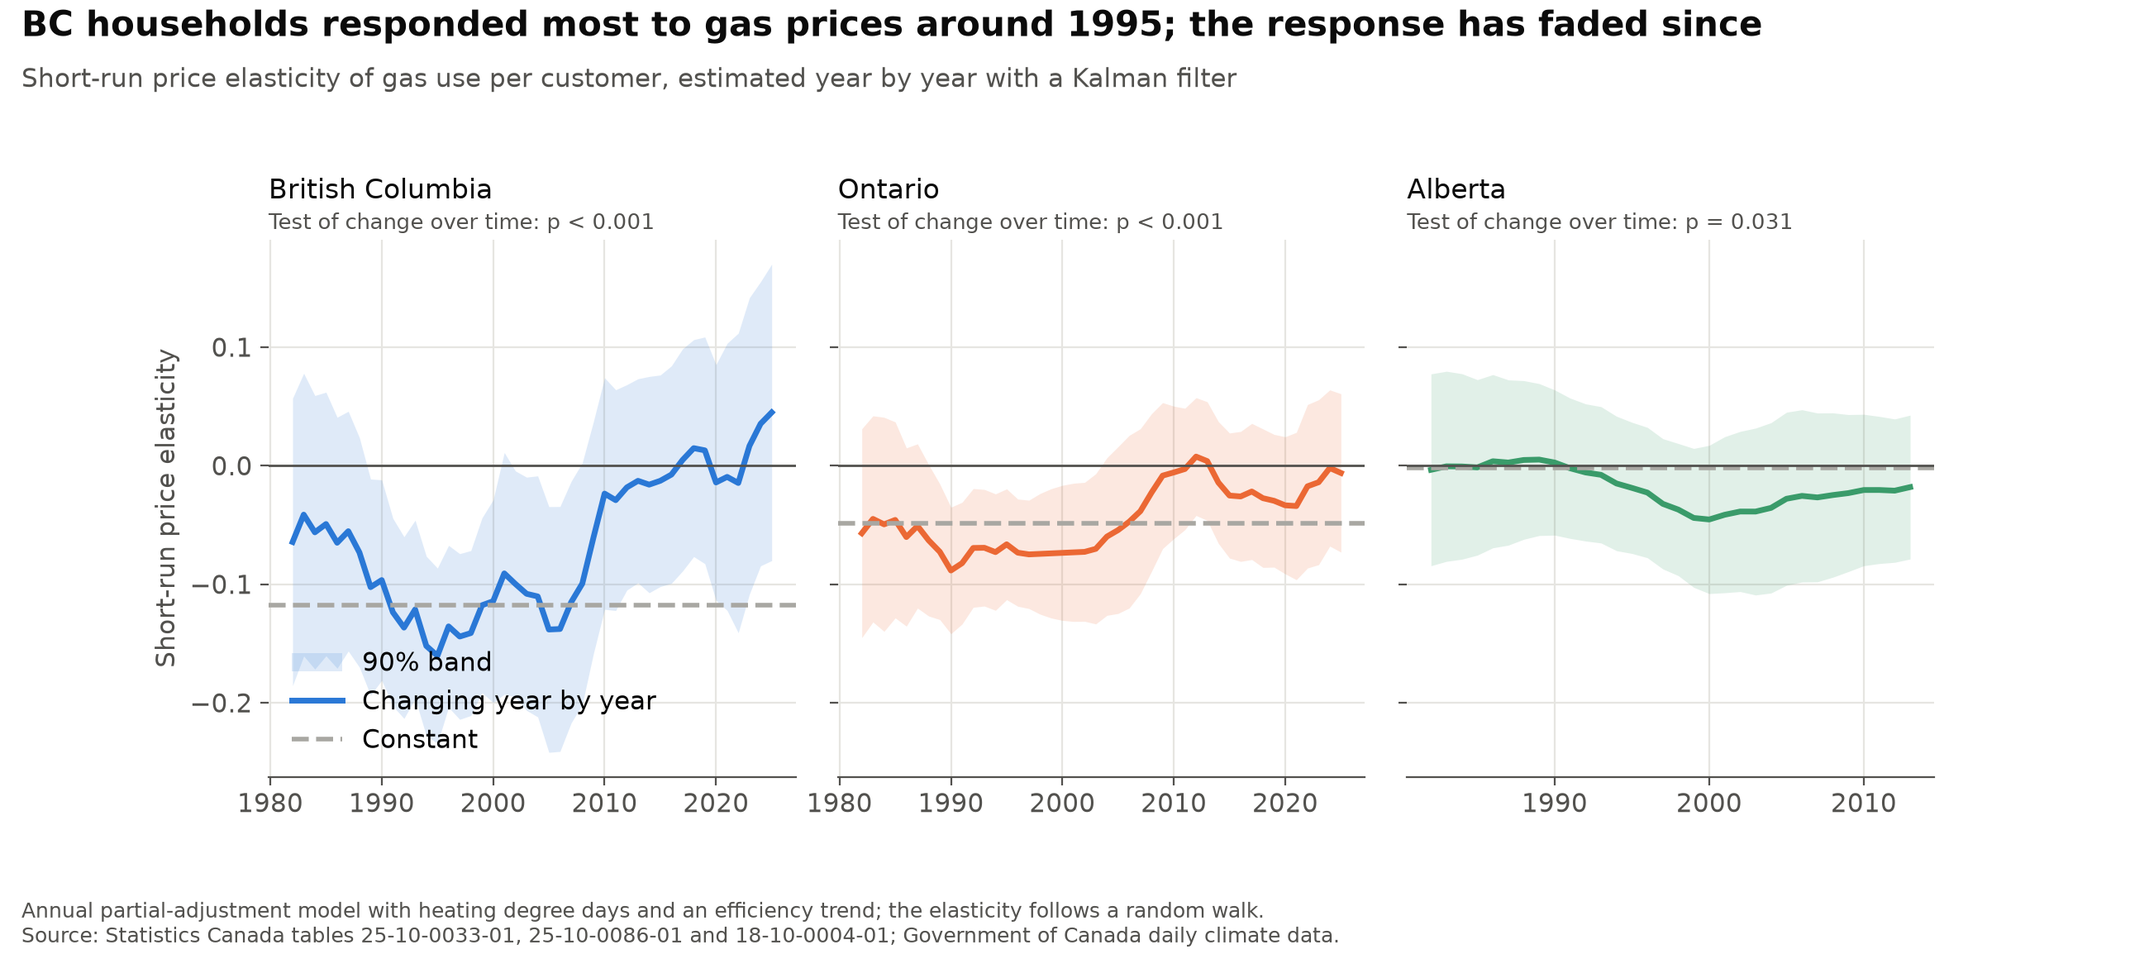
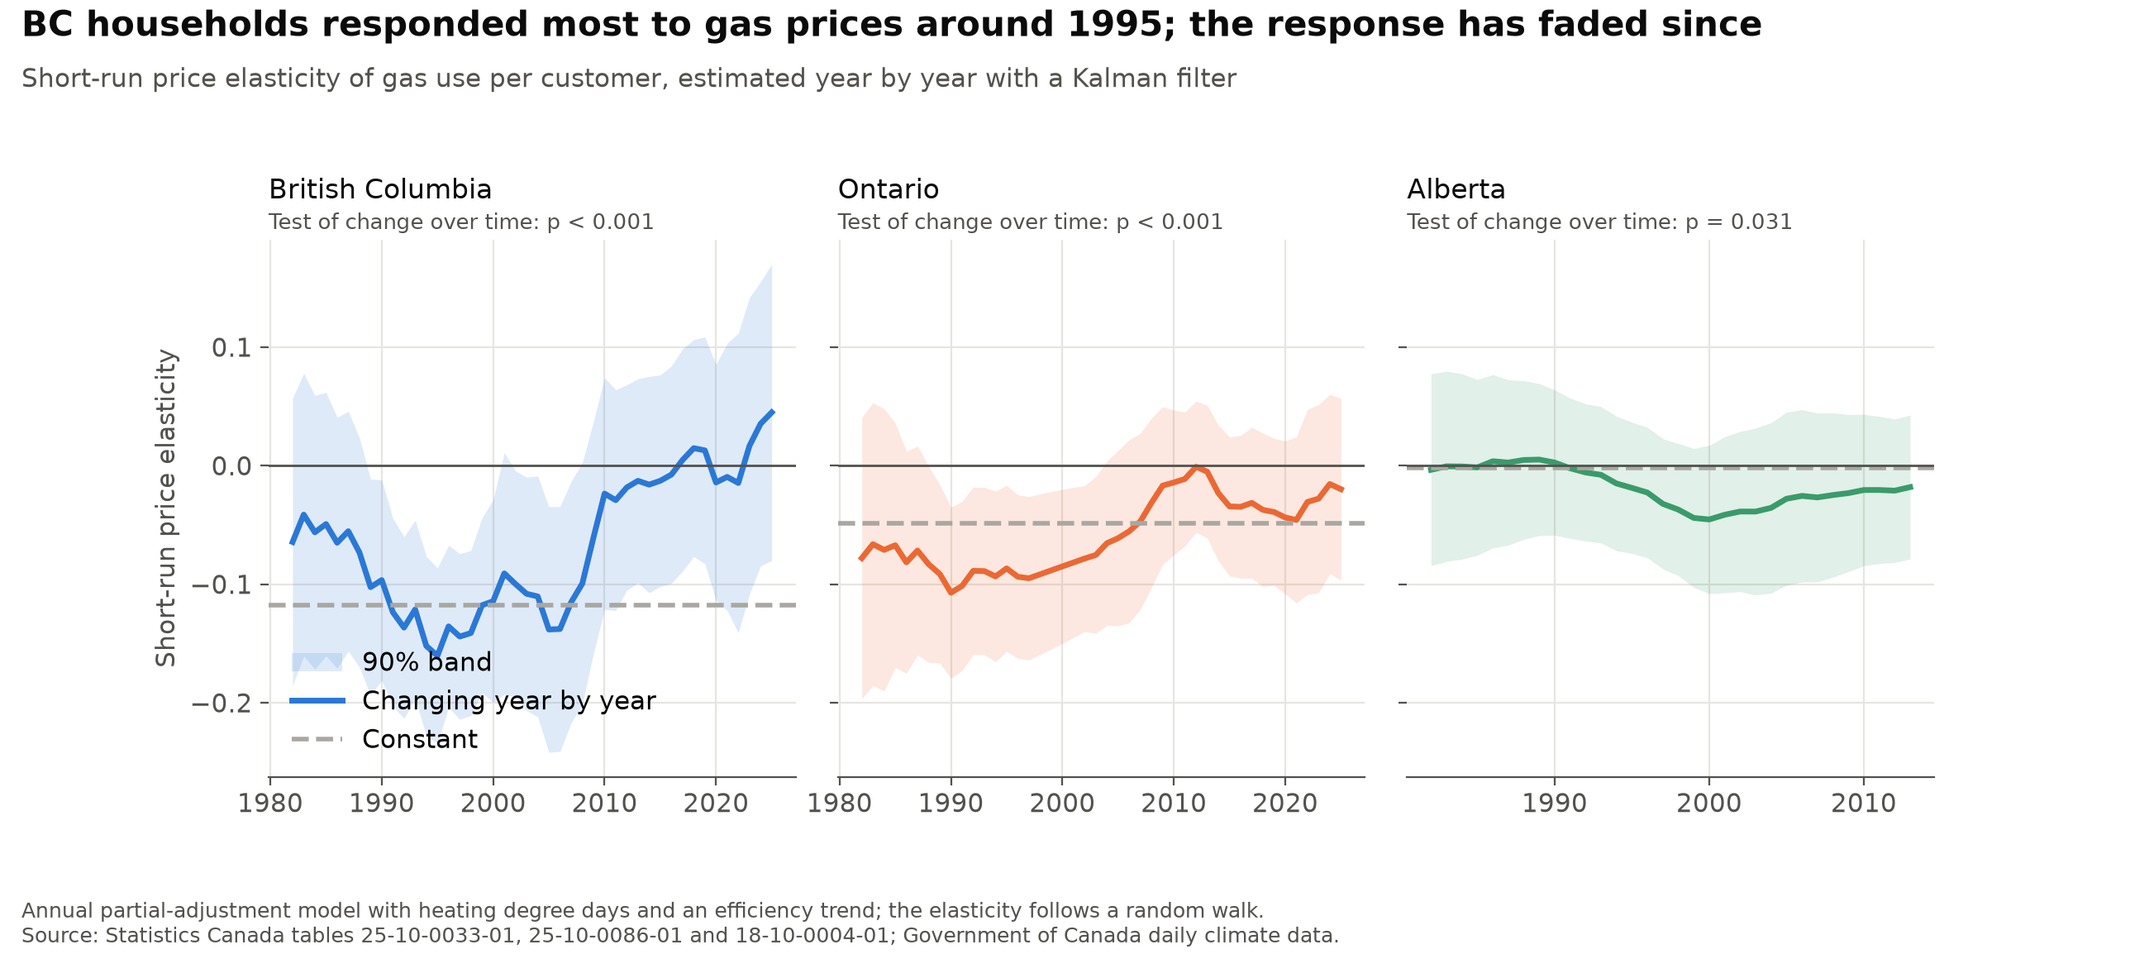
Reporting breaks per province, tests, CI, README and licence

Changed region(s): [[0.3738, 0.4655, 0.6231, 0.7138]]

diff --git a/tests/test_gas.py b/tests/test_gas.py
@@ -1,0 +1,125 @@
+"""Checks for the data handling and models in gas.py. No downloads: every input is built here."""
+import numpy as np
+import pandas as pd
+
+import gas
+
+
+def statcan_rows(geo, dims, values):
+    """A long-format Statistics Canada table: one row per (month, member) with a VALUE."""
+    return pd.DataFrame([{"GEO": geo, "REF_DATE": month, **dims(member), "VALUE": v} for (month, member), v in values.items()])
+
+
+def test_old_table_adds_utility_and_direct_sales_and_converts_cents():
+    t = statcan_rows("Ontario", lambda e: {"Sector": "Residential", "Estimates": e}, {
+        ("2006-12", "Sales"): 100.0, ("2006-12", "Customers"): 10.0, ("2006-12", "Sales unit price"): 30.0,
+        ("2007-01", "Utilities sales"): 80.0, ("2007-01", "Direct sales"): 40.0, ("2007-01", "Customers"): 10.0,
+        ("2007-01", "Sales unit price"): 32.0,
+    })
+    out = gas.gas_old(t).loc["Ontario"]
+    assert out.m3.tolist() == [100_000.0, 120_000.0]  # thousand m3 -> m3
+    assert out.price.tolist() == [0.30, 0.32]  # cents -> dollars per m3
+
+
+def test_new_table_price_is_dollars_per_cubic_metre():
+    t = statcan_rows("Alberta", lambda u: {"Supply and disposition": "Residential consumption", "Unit of measure": u}, {
+        ("2016-01", "Cubic metres"): 200.0, ("2016-01", "Canadian dollars"): 50.0, ("2016-01", "Customers"): 5.0,
+    })
+    out = gas.gas_new(t).loc["Alberta"]
+    assert out.m3.iloc[0] == 200_000 and out.price.iloc[0] == 0.25
+
+
+def test_fix_ontario_interpolates_customers_and_blanks_the_gap():
+    months = pd.period_range("1997-01", "2019-12", freq="M").astype(str)
+    frame = pd.DataFrame({"m3": 1.0, "customers": 100.0, "price": 0.3},
+                         index=pd.MultiIndex.from_product([["Ontario", "Alberta"], months]))
+    frame.loc[("Ontario", "2015-12"), "customers"] = 300.0
+    frame.loc[("Ontario", "2019-01"), "customers"] = 337.0
+    fixed = gas.fix_ontario(frame)
+    on = fixed.loc["Ontario"]
+    assert np.isclose(on.customers["2017-07"], 300 + 37 * 19 / 37)  # straight line, Dec 2015 to Jan 2019
+    assert on.loc["1998-01":"2000-12", ["m3", "customers"]].isna().all().all()
+    assert on.loc["1997-12", "m3"] == 1.0 and on.loc["2001-01", "m3"] == 1.0
+    assert fixed.loc["Alberta"].notna().all().all()  # other provinces untouched
+
+
+def test_heating_degree_days_scale_partial_months_and_drop_thin_ones():
+    days = pd.date_range("2020-01-01", "2020-03-31")
+    t = pd.Series(8.0, index=days)
+    t = t.drop(days[(days.month == 2) & (days.day > 14)])  # February: 14 days of readings
+    t = t.drop(days[(days.month == 3) & (days.day > 13)])  # March: 13 days, too few
+    t[days[(days.month == 1) & (days.day == 1)]] = 25.0  # a warm day adds no heating degrees
+    hdd = gas.heating_degree_days(t)
+    assert np.isclose(hdd[pd.Period("2020-01")], 30 * 10)
+    assert np.isclose(hdd[pd.Period("2020-02")], 29 * 10)  # scaled to the full (leap) month
+    assert pd.Period("2020-03") not in hdd.index
+
+
+def monthly_frame(years, use=100.0, price=0.5):
+    months = pd.period_range(f"{years[0]}-01", f"{years[-1]}-12", freq="M")
+    gas_frame = pd.DataFrame({"m3": use * 10.0, "customers": 10.0, "price": price}, index=months.astype(str))
+    cpi = pd.Series(100.0, index=months.astype(str))
+    hdd = pd.Series(300.0, index=months)
+    return gas.monthly(gas_frame, cpi, hdd, reporting_breaks=[years[-1]])
+
+
+def test_past_year_price_is_the_mean_log_price_of_the_previous_twelve_months():
+    d = monthly_frame([2000, 2001], price=np.exp(np.arange(24.0)))  # log real price 0, 1, 2, ... (CPI = 100)
+    assert np.isnan(d.log_price_past_year.iloc[11])
+    assert np.isclose(d.log_price_past_year.iloc[12], np.mean(range(12)))  # January 2001: Jan-Dec 2000
+    assert np.isclose(d.log_price_past_year.iloc[23], np.mean(range(11, 23)))
+
+
+def test_annual_weights_price_by_volume_and_keeps_gaps():
+    d = monthly_frame([2000, 2001, 2002])
+    d.loc["2000-01", ["m3", "real_price"]] = [3000.0, 1.0]  # a high-volume month at a higher price
+    d.loc["2001-06", "m3"] = np.nan  # an incomplete year
+    y = gas.annual(d)
+    assert list(y.index) == [2000, 2001, 2002]
+    assert np.isclose(y.real_price[2000], (3000 * 1.0 + 11 * 1000 * 0.5) / (3000 + 11 * 1000))
+    assert np.isnan(y.use[2001])
+    assert np.isnan(y.log_use_lag[2002])  # last year's use is 2001's (missing), not 2000's
+    assert y.since_2002.tolist() == [0, 0, 1] and gas.breaks(y) == ["since_2002"]
+
+
+def test_partial_adjustment_recovers_short_and_long_run():
+    rng = np.random.default_rng(0)
+    n = 400
+    log_price = np.cumsum(rng.normal(0, 0.1, n))
+    hdd = rng.normal(4000, 300, n)
+    log_use = np.zeros(n)
+    for t in range(1, n):
+        log_use[t] = 1.0 - 0.2 * log_price[t] + 0.5 * log_use[t - 1] + 0.0001 * hdd[t] + rng.normal(0, 0.01)
+    y = pd.DataFrame({"log_use": log_use, "log_price": log_price, "hdd": hdd}, index=range(1900, 1900 + n))
+    y["log_use_lag"], y["trend"] = y.log_use.shift(1), 0.0
+    est = gas.partial_adjustment(y.iloc[1:], trend=False)
+    assert abs(est.short_run + 0.2) < 0.02 and abs(est.adjustment - 0.5) < 0.05
+    assert abs(est.long_run + 0.4) < 0.05 and est.long_run_se > 0
+
+
+def test_monthly_model_recovers_an_elasticity_on_past_year_prices():
+    rng = np.random.default_rng(1)
+    months = pd.period_range("1990-01", "2019-12", freq="M")
+    d = pd.DataFrame(index=months)
+    d["log_price"] = np.cumsum(rng.normal(0, 0.03, len(d)))
+    d["log_price_past_year"] = d.log_price.shift(1).rolling(12).mean()
+    d["hdd"] = 300 + 250 * np.cos(2 * np.pi * (months.month - 1) / 12) + rng.normal(0, 30, len(d))
+    d["use"] = np.exp(5 - 0.15 * d.log_price_past_year + 0.002 * d.hdd + rng.normal(0, 0.02, len(d)))
+    fit = gas.monthly_model(d, "log_price_past_year")
+    assert abs(fit.params.log_price_past_year + 0.15) < 0.03
+
+
+def test_time_varying_elasticity_tracks_a_drifting_elasticity_and_is_detected():
+    rng = np.random.default_rng(2)
+    n = 120
+    true = np.linspace(-0.3, 0.0, n)
+    log_price = np.cumsum(rng.normal(0, 0.15, n))
+    hdd = rng.normal(4000, 300, n)
+    log_use = np.zeros(n)
+    for t in range(1, n):
+        log_use[t] = 2.0 + true[t] * log_price[t] + 0.3 * log_use[t - 1] + 0.0001 * hdd[t] + rng.normal(0, 0.01)
+    y = pd.DataFrame({"log_use": log_use, "log_price": log_price, "hdd": hdd}, index=range(1900, 1900 + n))
+    y["log_use_lag"], y["trend"] = y.log_use.shift(1), (y.index - 1900) / 10
+    path, lr, pvalue = gas.time_varying(y)
+    error = (path.elasticity - true[1:]).abs()
+    assert error.mean() < 0.05 and pvalue < 0.01

diff --git a/gas.py b/gas.py
@@ -112,7 +112,17 @@ def heating_degree_days(daily):
 
 
 # Series ----
-def monthly(gas, index, hdd):
+# Years from which the tables report differently, so each period gets its own level: the 2016 switch to the
+# newer table, and Ontario's coverage change after its 1998-2000 gap (customers up a quarter in 2001)
+REPORTING_BREAKS = {"British Columbia": [2016], "Ontario": [2001, 2016], "Alberta": []}
+
+
+def breaks(frame):
+    """The reporting-break columns that vary within this sample."""
+    return [c for c in frame if c.startswith("since_") and 0 < frame[c].mean() < 1]
+
+
+def monthly(gas, index, hdd, reporting_breaks=()):
     """One province's monthly series: use per customer, real price, heating degree days."""
     d = gas.copy()
     d.index = pd.PeriodIndex(d.index, freq="M")
@@ -125,7 +135,8 @@ def monthly(gas, index, hdd):
     # Households see last month's bill, and the average price falls in cold months as fixed charges spread
     # over more gas: the average over the previous 12 months is free of both problems
     d["log_price_past_year"] = d.log_price.shift(1).rolling(12).mean()
-    d["post2016"] = (d.index.year >= 2016) * 1.0  # the newer table, whose reporting may differ
+    for year in reporting_breaks:
+        d[f"since_{year}"] = (d.index.year >= year) * 1.0
     return d
 
 
@@ -137,7 +148,7 @@ def annual(d):
         "use": g.m3.sum(min_count=12) / g.customers.mean(),
         "real_price": g.spend.sum(min_count=12) / g.m3.sum(min_count=12),
         "hdd": g.hdd.sum(min_count=12),
-        "post2016": g.post2016.max(),
+        **{c: g[c].max() for c in d if c.startswith("since_")},
     })[g.size() == 12]
     y = y.reindex(range(y.index.min(), y.index.max() + 1))  # keep gaps as gaps, so last year's use is last year's
     y["log_use"], y["log_price"] = np.log(y.use), np.log(y.real_price)
@@ -152,11 +163,11 @@ MODEL_INPUTS = ["log_use", "log_price", "log_use_lag", "hdd"]
 # Models ----
 def monthly_model(d, price):
     """Log use per customer on a log real price, heating degree days, calendar month, a linear trend and the
-    2016 table change, with standard errors robust to a year of autocorrelation."""
+    reporting breaks, with standard errors robust to a year of autocorrelation."""
     d = d.dropna(subset=["use", price, "hdd"])
     month = pd.get_dummies(d.index.month, prefix="month", drop_first=True, dtype=float).set_index(d.index)
-    X = pd.concat([d[price], d.hdd / 100, month, pd.Series(np.arange(len(d)) / 120, index=d.index, name="trend")]
-                  + ([d.post2016] if d.post2016.any() else []), axis=1)
+    X = pd.concat([d[price], d.hdd / 100, month, pd.Series(np.arange(len(d)) / 120, index=d.index, name="trend"),
+                   d[breaks(d)]], axis=1)
     return sm.OLS(np.log(d.use), sm.add_constant(X)).fit(cov_type="HAC", cov_kwds={"maxlags": 12})
 
 
@@ -164,7 +175,7 @@ def partial_adjustment(y, trend=True):
     """Annual partial adjustment: use moves part of the way to its long-run level each year, so the short-run
     elasticity is b and the long-run one b / (1 - adjustment), with a delta-method standard error."""
     y = y.dropna(subset=MODEL_INPUTS)
-    cols = ["log_price", "log_use_lag", "hdd"] + (["trend"] if trend else []) + (["post2016"] if y.post2016.any() else [])
+    cols = ["log_price", "log_use_lag", "hdd"] + (["trend"] if trend else []) + breaks(y)
     fit = sm.OLS(y.log_use, sm.add_constant(y[cols].assign(hdd=y.hdd / 1000))).fit()
     b, lag = fit.params.log_price, fit.params.log_use_lag
     grad = pd.Series(0.0, index=fit.params.index)
@@ -175,7 +186,7 @@ def partial_adjustment(y, trend=True):
 
 class TimeVaryingElasticity(MLEModel):
     """Annual partial adjustment in which the short-run price elasticity is a random walk: log use = elasticity_t
-    x log price + fixed effects (constant, last year's log use, heating degree days, trend, the 2016 table change)
+    x log price + fixed effects (constant, last year's log use, heating degree days, trend, reporting breaks)
     + noise. The Kalman smoother traces the elasticity; its variance and the noise variance are estimated by
     maximum likelihood."""
 
@@ -218,7 +229,7 @@ def time_varying(y):
     usable = y[MODEL_INPUTS].notna().all(axis=1)
     y = y.loc[usable.idxmax():usable[::-1].idxmax()]
     usable = usable.reindex(y.index)
-    fixed = sm.add_constant(y[["log_use_lag", "hdd", "trend"] + (["post2016"] if y.post2016.any() else [])]
+    fixed = sm.add_constant(y[["log_use_lag", "hdd", "trend"] + breaks(y)]
                             .assign(hdd=y.hdd / 1000), has_constant="add").fillna(0)
     model = TimeVaryingElasticity(y.log_use.where(usable), y.log_price.fillna(0), fixed)
     fit = model.fit(disp=False, maxiter=1000)
@@ -240,7 +251,7 @@ def main():
     for p in PROVINCES:
         new, old = STATIONS[p]
         hdd = heating_degree_days(temperature(new).combine_first(temperature(old)))
-        d = monthly(gas.loc[p], prices.loc[p], hdd).loc["1981-01":]
+        d = monthly(gas.loc[p], prices.loc[p], hdd, REPORTING_BREAKS[p]).loc["1981-01":]
         series[p] = d.loc[:ALBERTA_END] if p == "Alberta" else d
         years[p] = annual(series[p])
 

diff --git a/README.md b/README.md
@@ -1,0 +1,87 @@
+# canada_gas_demand
+
+[![tests](https://github.com/atamalfuzi/canada_gas_demand/actions/workflows/tests.yml/badge.svg)](https://github.com/atamalfuzi/canada_gas_demand/actions/workflows/tests.yml)
+
+An independent look at how households in British Columbia, Ontario and Alberta respond to the price of natural gas, built from public data in Python. It asks three questions: how much does a higher price reduce gas use, how does that differ between the first year and the long run, and has the response changed since 1980? Along the way it shows two traps that make households look more price-sensitive than they are.
+
+![Two traps in measuring the price response](figures/two_traps.png)
+
+![Price elasticity over time, Kalman filter](figures/elasticity_over_time.png)
+
+![Gas use per customer and real price](figures/use_and_price.png)
+
+## What it shows
+
+A price elasticity of −0.1 means a 10% higher real price cuts gas use per customer by 1%.
+
+| | British Columbia | Ontario | Alberta (1981–2013) |
+|---|---|---|---|
+| Short run, first year | **−0.12** (SE 0.04) | −0.05 (0.04) | 0.00 (0.03) |
+| Long run, after adjustment | **−0.18** (0.07) | −0.06 (0.04) | 0.00 (0.03) |
+| Monthly, past year's price | −0.15 (0.05) | −0.10 (0.05) | −0.01 (0.05) |
+| *Trap 1: the month's average price* | *−0.22 (52% too large)* | *−0.16 (63% too large)* | *−0.02* |
+| *Trap 2: long run without an efficiency trend* | *−0.39 (2.2 times too large)* | *+0.12 (wrong sign)* | *−0.18* |
+
+- **Households respond only a little to gas prices.** In BC, a 10% higher real price cuts gas use by about 1.2% within the year and 1.8% once households have adjusted. Ontario's response is smaller, and Alberta's, with cheap gas and cold winters, is indistinguishable from zero.
+- **Trap 1: the month's average price.** The only price in the data is revenue per cubic metre, which includes fixed monthly charges. In a cold month the fixed charge is spread over more gas, so the average price falls just as use rises, and a regression reads the weather as a price response. Using the average price over the previous 12 months, which households have actually seen on their bills, removes this: the month's average price overstates the response by 52% in BC and 63% in Ontario.
+- **Trap 2: leaving out efficiency gains.** Gas use per customer fell 40% in BC from 1981 to 2025, 37% in Ontario and 24% in Alberta by 2013, about 7–10% a decade from better furnaces, insulation and smaller homes. Prices rose over much of that time, so a model without a trend credits the price for the efficiency gains: BC's long-run response looks 2.2 times too large, and Ontario's even comes out with the wrong sign.
+- **The response has faded since about 2010.** Estimated year by year, BC's short-run elasticity was strongest around 1995 (−0.16) and averaged −0.12 over 1990–2005, but has been close to zero since 2011. Ontario's moved from about −0.09 to −0.03. The change over time is statistically clear in BC and Ontario (likelihood-ratio test, p < 0.001) and weaker in Alberta (p = 0.03). The data cannot show why; one possibility is that after decades of efficiency gains, more of the gas that remains goes to basic space and water heating.
+
+## Method
+
+**Data preparation.** Monthly residential gas volume, revenue and customers come from two Statistics Canada tables, one ending in 2015 and one starting in 2016. Use per customer is volume over customers; the price is revenue per cubic metre, deflated by the provincial consumer price index. Heating degree days below 18 °C are summed from daily mean temperatures at Vancouver, Toronto and Calgary airports, joining each airport's old and new station records. Three problems in the tables are handled explicitly:
+
+- From November 2014, Alberta's reported price covers only the gas commodity, about half of what households pay, so Alberta is analysed to October 2014 (full years to 2013).
+- In 1998–2000, as Ontario's retail gas market opened, the table covers only part of the volume (down a quarter) and of the customers, and the customer count jumps a quarter in 2001. Those three years are left out, and Ontario gets a separate level from 2001.
+- In 2016–2018 the newer table counts only part of Ontario's customers (2.0 million, against 3.3 million before and 3.4 million after) while volumes are complete; the counts are filled by a straight line between December 2015 and January 2019.
+
+Every model also allows a separate level from 2016, when the table changes. The test for whether a period needs its own level came from the data: without the 2001 level, Ontario's monthly estimate is −0.16, but −0.04 using only 2001 onward and +0.06 using only 1981–1997, because the model read the jump across the data gap as a price response.
+
+**1. Monthly price response.** A least-squares regression of log use per customer on a log real price, heating degree days, calendar month, a linear trend and the reporting levels, with standard errors robust to a year of autocorrelation. It is run with the month's own average price (trap 1) and with the average log price over the previous 12 months.
+
+**2. Short and long run.** An annual partial-adjustment model: log use on the log real price, last year's log use, heating degree days, a linear trend and the reporting levels. Households close part of the gap to their long-run level each year, so the short-run elasticity is the price coefficient *b* and the long-run one *b* / (1 − the coefficient on last year's use), with a delta-method standard error. Prices are weighted by volume within each year. Dropping the trend shows trap 2.
+
+**3. Change over time.** The same annual model as a state space, with the short-run elasticity following a random walk. The variances of the elasticity's year-to-year changes and of the noise are estimated by maximum likelihood, and the Kalman smoother traces the elasticity with a 90% band. Years with missing data stay in as missing observations, so the elasticity drifts across them. A likelihood-ratio test compares it with a constant elasticity; because the variance being tested sits on the boundary (zero), the p-value is half the chi-squared one.
+
+All estimates are in [`output/elasticities.csv`](output/elasticities.csv), the year-by-year elasticities in [`output/elasticity_over_time.csv`](output/elasticity_over_time.csv) and the annual series in [`output/annual.csv`](output/annual.csv). The data handling and models are checked by the tests in [`tests/`](tests/test_gas.py), which run on every push, including the models recovering known elasticities from simulated data.
+
+## Limits
+
+- **Average, not marginal, price.** Revenue per cubic metre mixes the per-unit price with fixed charges. The past-year average avoids the seasonal trap, but it is still not the price of the next cubic metre.
+- **The price includes taxes and charges in force at the time,** including carbon charges where they applied. This project estimates the response to the total price only. It does not evaluate any carbon pricing or other policy.
+- **Customers, not households,** and aggregate data: the estimates are averages across very different homes, heating systems and incomes.
+- **One airport per province** stands in for the weather where customers live.
+- **Prices are not set by an experiment.** Residential gas rates are regulated and follow wholesale markets, so they respond little to one province's demand within a year, but the estimates are associations under the model's assumptions, not proof of cause.
+- **Short samples and a model choice.** The annual models have 32–44 years. How much the elasticity appears to change over time depends on including the efficiency trend: without it, the elasticity drifts to implausible positive values after 2010.
+
+## Data
+
+The script downloads everything itself:
+
+| Data | Source | Licence |
+|---|---|---|
+| Monthly residential natural gas sales, revenue and customers, 1980–2015 | Statistics Canada, [table 25-10-0033-01](https://www150.statcan.gc.ca/t1/tbl1/en/tv.action?pid=2510003301) | [Statistics Canada Open Licence](https://www.statcan.gc.ca/en/terms-conditions/open-licence) |
+| Monthly residential natural gas consumption, sales and customers, 2016 onward | Statistics Canada, [table 25-10-0086-01](https://www150.statcan.gc.ca/t1/tbl1/en/tv.action?pid=2510008601) | Statistics Canada Open Licence |
+| Consumer price index by province, monthly | Statistics Canada, [table 18-10-0004-01](https://www150.statcan.gc.ca/t1/tbl1/en/tv.action?pid=1810000401) | Statistics Canada Open Licence |
+| Daily mean temperature at Vancouver, Toronto and Calgary airports | Government of Canada historical climate data, via the [MSC GeoMet API](https://api.weather.gc.ca/collections/climate-daily) | [Open Government Licence – Canada](https://open.canada.ca/en/open-government-licence-canada) |
+
+Adapted from Statistics Canada, tables 25-10-0033-01, 25-10-0086-01 and 18-10-0004-01. This does not constitute an endorsement by Statistics Canada of this product. Contains information licensed under the Open Government Licence – Canada.
+
+## Run it
+
+Python 3.12:
+
+```
+python -m venv .venv
+.venv\Scripts\activate          # Windows; on macOS or Linux: source .venv/bin/activate
+pip install -r requirements.txt
+python gas.py
+```
+
+Run it from the repository folder. The first run downloads about 21 MB into `data/`; later runs reuse those files (delete them to download again) and take a few seconds. It writes the charts to `figures/` and the tables to `output/`, and prints the estimates.
+
+To run the tests: `pip install -r requirements-dev.txt`, then `pytest`. They need no downloads.
+
+## License
+
+Code: [MIT](LICENSE).
